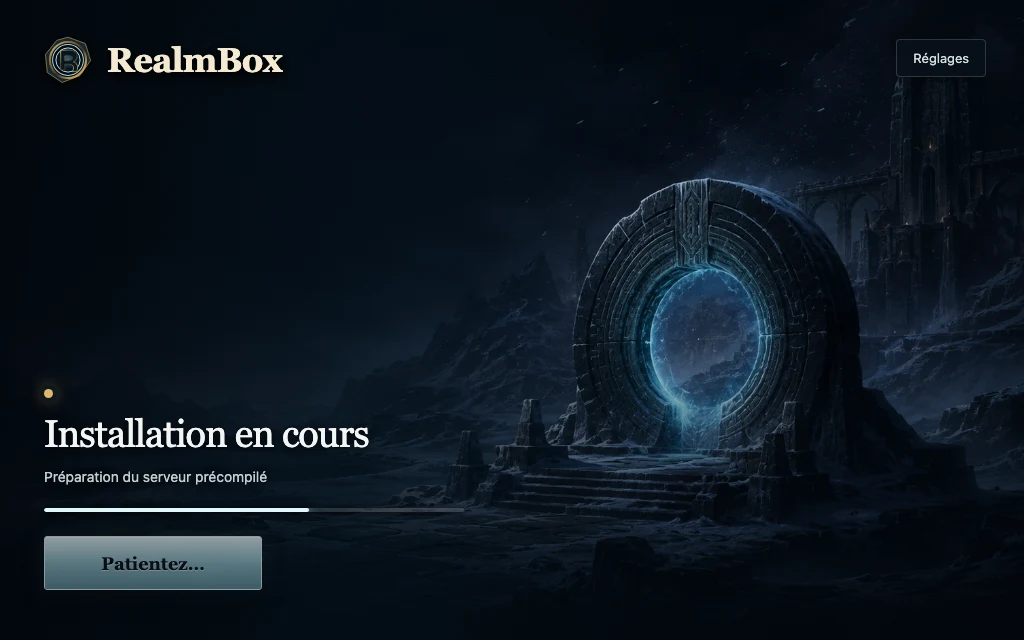
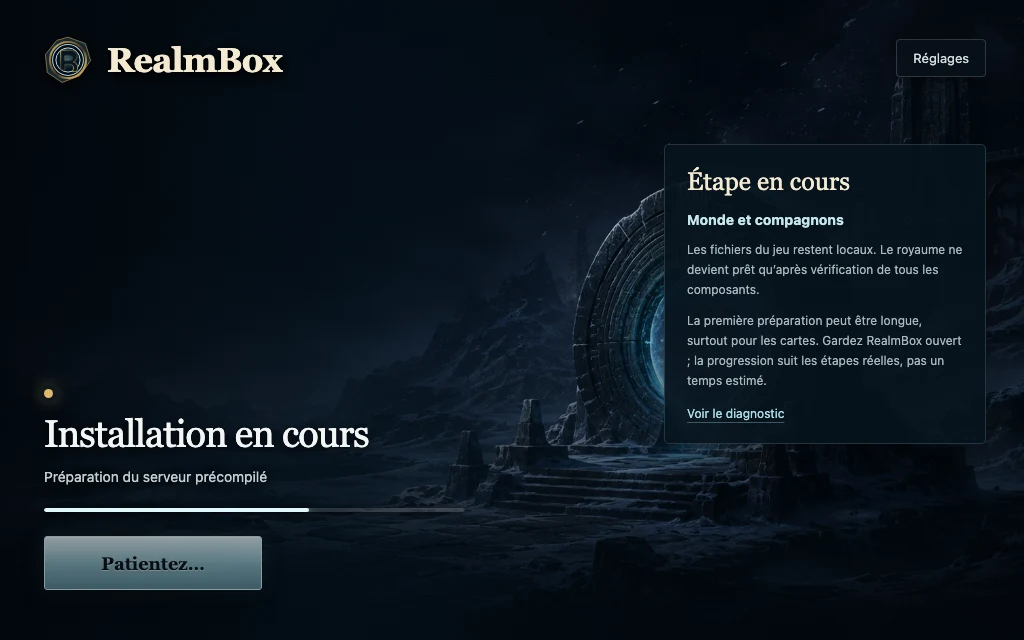
docs: refresh RealmBox website and READMEs for 0.5.0

Changed region(s): [[0.625, 0.25, 0.9688, 0.7188]]

diff --git a/site/src/content/fr.ts b/site/src/content/fr.ts
@@ -12,11 +12,26 @@ export const fr: SiteCopy = {
     title: "Azeroth chez vous.",
     accent: "Des bots à vos côtés.",
     body: "RealmBox transforme votre copie compatible de World of Warcraft en une aventure solo locale : AzerothCore fait tourner le monde, Playerbots le peuple et le launcher s’occupe de toute l’installation.",
-    download: "Télécharger RealmBox",
+    download: "Voir la préversion 0.5.0",
+    availability: "Installateurs et sommes SHA-256 : vérifiez leur disponibilité sur GitHub. Windows reste expérimental ; le parcours en jeu 0.5.0 reste à qualifier sur les deux plateformes.",
     install: "Voir l’installation",
     screenshotAsset: "launcher-ready-fr.webp",
     screenshotAlt: "Le launcher RealmBox prêt à lancer World of Warcraft en local",
-    screenshotCaption: "Le vrai launcher RealmBox · aucune ressource du jeu n’est distribuée",
+    screenshotCaption: "Interface RealmBox 0.5.0 · aperçu avec données de démonstration",
+  },
+  updates: {
+    eyebrow: "Nouveautés · préversion 0.5.0",
+    title: "Préparez votre monde. Choisissez votre rythme.",
+    body: "Un accueil avec les raccourcis de votre royaume et de nouveaux outils pour votre aventure solo. Ces vues présentent la version 0.5.0 ; consultez la préversion pour la disponibilité des installateurs.",
+    items: [
+      { title: "Une installation en trois étapes", body: "Votre copie de WoW, vos compagnons, puis le récapitulatif. RealmBox vérifie Docker et l’espace disponible avant d’autoriser le téléchargement." },
+      { title: "Trois rythmes de progression", body: "Normal, Confort ou Accéléré : inspectez les valeurs avant de les appliquer, monde arrêté. Les règles précédentes peuvent être restaurées ; la difficulté des ennemis ne change pas." },
+      { title: "Quêtes et objets à portée de recherche", body: "Le Guide local retrouve jusqu’à huit résultats par nom dans les références de votre monde, avec leur source. Sans IA ni service externe, sans consulter votre personnage." },
+      { title: "Une équipe plus facile à diriger", body: "Trois préréglages d’escouade à cinq, un compagnon principal observé et un aperçu des commandes de groupe ou de cible. Le rappel des mêmes bots par leur nom n’est pas garanti." },
+      { title: "Votre progression protégée", body: "Créez une sauvegarde complète et vérifiée depuis Protection. Les copies restent sur votre ordinateur, hors de l’installation remplaçable, sans écraser les précédentes." },
+      { title: "Des dialogues toujours facultatifs", body: "Direct, Immersif ou Vivant : réglez les échanges indépendamment de la population. Le nouveau correctif de reprise après échec dépend des images serveur reconstruites pour 0.5.0." },
+    ],
+    link: { href: "https://github.com/bnjdpn/RealmBox/releases/tag/v0.5.0", label: "Nouveautés et disponibilité de la préversion" },
   },
   promise: {
     eyebrow: "WoW, sans serveur à administrer",
@@ -32,14 +47,14 @@ export const fr: SiteCopy = {
     eyebrow: "Playerbots intégrés",
     title: "Azeroth n’est plus vide quand vous jouez seul.",
     body: "Croisez des bots dans le monde, formez un groupe de quatre compagnons et donnez-leur des ordres depuis l’addon RealmBox directement dans WoW.",
-    points: ["Population adaptée à la mémoire de votre machine", "Équipe équilibrée : tank, soin et dégâts", "Suivre, attaquer, attendre, regrouper ou libérer", "Dialogues locaux facultatifs avec Ollama"],
+    points: ["5, 25, 50, 100 ou 150 bots, selon la mémoire attribuée à Docker", "Présence indépendante : Dispersés, Naturelle ou Toujours proches", "Votre équipe en jeu : Escorte, Garde ou Libres", "Dialogues facultatifs : Direct, Immersif ou Vivant"],
     screenshotAsset: "launcher-companions-fr.webp",
     screenshotAlt: "Réglage de la population Playerbots dans RealmBox",
   },
   install: {
     eyebrow: "Installation guidée",
     title: "De zéro à Azeroth en cinq étapes.",
-    intro: "RealmBox a besoin de Docker Desktop et des fichiers d’une copie compatible de WoW. Il ne fournit ni ne téléverse les données du jeu.",
+    intro: "Préparez Docker Desktop et votre copie compatible de WoW, puis suivez l’assistant 0.5.0. Les installateurs sont proposés sur la page de préversion lorsqu’ils sont disponibles.",
     steps: [
       {
         title: "Installez Docker Desktop",
@@ -56,15 +71,15 @@ export const fr: SiteCopy = {
       },
       {
         title: "Téléchargez RealmBox",
-        body: "Prenez le DMG pour Mac Apple Silicon ou l’installateur Windows x64 depuis les releases GitHub, puis vérifiez le SHA-256 fourni.",
+        body: "Consultez les fichiers de la préversion : DMG Mac Apple Silicon ou installateur Windows x64 expérimental. Attendez que le fichier et SHA256SUMS.txt soient disponibles, puis comparez la somme SHA-256.",
         links: [{ href: "https://github.com/bnjdpn/RealmBox/releases", label: "Ouvrir les releases RealmBox" }],
       },
-      { title: "Choisissez le dossier WoW", body: "Dans RealmBox, sélectionnez le dossier qui contient Data. Le launcher vérifie les fichiers sans modifier votre copie source." },
-      { title: "Installez, puis jouez", body: "Choisissez la population de bots, lancez l’installation et cliquez sur Jouer lorsque RealmBox affiche que tout est prêt." },
+      { title: "Votre copie de WoW, puis vos compagnons", body: "Dans l’assistant, sélectionnez le dossier du jeu ou Data, puis réglez population, présence et dialogues facultatifs. Les fichiers de jeu sont vérifiés avant de poursuivre." },
+      { title: "Installez, puis jouez", body: "Consultez Votre installation et corrigez les avertissements Docker ou disque. Cliquez sur Installer après validation, puis sur Jouer lorsque votre monde est prêt." },
     ],
     requirementsTitle: "Configuration requise",
     requirements: [
-      { label: "Système", value: "Mac Apple Silicon ou PC Windows x64" },
+      { label: "Système", value: "Mac Apple Silicon ou PC Windows x64 (expérimental)" },
       {
         label: "Conteneurs",
         value: "Docker Desktop installé, démarré et doté de mémoire",
@@ -97,8 +112,8 @@ export const fr: SiteCopy = {
     facts: [
       { title: "Données extraites localement", body: "maps, vmaps, mmaps et dbc sont produits depuis votre propre dossier Data." },
       { title: "Services isolés", body: "Les ports de jeu restent liés à 127.0.0.1 et MySQL n’est pas exposé sur l’hôte." },
-      { title: "Mises à jour protégées", body: "Une sauvegarde complète et vérifiée des personnages est obligatoire avant toute migration." },
-      { title: "Dialogues facultatifs", body: "Ollama et un petit modèle local peuvent alimenter les réponses des bots sans cloud pendant le jeu." },
+      { title: "Mises à jour protégées", body: "Sauvegarde complète vérifiée avant migration et à la demande dans Protection. Si une sauvegarde requise manque, l’opération s’arrête." },
+      { title: "Dialogues facultatifs", body: "Ollama et un petit modèle local peuvent alimenter les réponses des bots sans cloud pendant le jeu. L’analyse de compatibilité CanIRun transmet uniquement le processeur, le nombre de cœurs et la mémoire." },
     ],
   },
   local: {
@@ -111,6 +126,9 @@ export const fr: SiteCopy = {
     eyebrow: "Questions fréquentes",
     title: "L’essentiel avant de lancer l’installation.",
     items: [
+      { question: "La version 0.5.0 est-elle prête à télécharger ?", answer: "La page de préversion est publique. Vérifiez ses fichiers pour savoir si les installateurs et SHA256SUMS.txt sont disponibles. Les parcours complets macOS et Windows restent à qualifier pour cette version ; Windows est expérimental. Aucune signature de distribution ni notarisation n’est fournie." },
+      { question: "Puis-je annuler un profil solo ?", answer: "Oui, monde arrêté, vous pouvez restaurer les règles précédentes. Cela ne retire pas l’expérience, l’argent ou les métiers déjà acquis et ne modifie pas la difficulté des ennemis." },
+      { question: "Le Guide local suit-il ma progression ?", answer: "Non. Il recherche seulement les noms de quêtes et d’objets dans les références locales. Il ne lit ni votre journal de quêtes ni votre inventaire et ne génère aucun conseil par IA." },
       { question: "Est-ce vraiment World of Warcraft ?", answer: "RealmBox utilise les fichiers d’une copie compatible de World of Warcraft: Wrath of the Lich King et lance un Azeroth local avec AzerothCore. RealmBox ne contient et ne distribue aucun fichier propriétaire du jeu." },
       { question: "Ai-je besoin d’un abonnement ou d’un serveur en ligne ?", answer: "RealmBox ne se connecte pas aux serveurs officiels et ne demande aucun abonnement pour son fonctionnement local. Vous devez toutefois utiliser une copie du jeu que vous êtes autorisé à posséder." },
       { question: "À quoi servent les bots ?", answer: "Playerbots peuple Azeroth avec des personnages autonomes. L’addon RealmBox peut aussi réunir quatre bots près de vous pour créer une équipe jouable." },

diff --git a/site/src/content/en.ts b/site/src/content/en.ts
@@ -12,11 +12,26 @@ export const en: SiteCopy = {
     title: "Azeroth at home.",
     accent: "Bots by your side.",
     body: "RealmBox turns your compatible World of Warcraft copy into a local solo adventure: AzerothCore runs the world, Playerbots populate it, and the launcher handles the entire setup.",
-    download: "Download RealmBox",
+    download: "View the 0.5.0 preview",
+    availability: "Check GitHub for installer and SHA-256 availability. Windows remains experimental; the full 0.5.0 gameplay path still needs qualification on both platforms.",
     install: "See how to install",
     screenshotAsset: "launcher-ready-en.webp",
     screenshotAlt: "The RealmBox launcher ready to start World of Warcraft locally",
-    screenshotCaption: "The real RealmBox launcher · no game resources are distributed",
+    screenshotCaption: "RealmBox 0.5.0 interface · preview with demonstration data",
+  },
+  updates: {
+    eyebrow: "What’s new · 0.5.0 preview",
+    title: "Prepare your world. Choose your pace.",
+    body: "A home screen with realm shortcuts and new tools for your solo adventure. These views show version 0.5.0; check the preview release for installer availability.",
+    items: [
+      { title: "Setup in three steps", body: "Your WoW copy, your companions, then a summary. RealmBox checks Docker and available disk space before allowing the download." },
+      { title: "Three progression speeds", body: "Normal, Comfortable, or Accelerated: inspect the values before applying them with the world stopped. Previous rules can be restored; enemy difficulty stays the same." },
+      { title: "Find quests and items locally", body: "The Local guide finds up to eight results by name in your world’s catalogue, with their source. No AI or external service, and no access to your character." },
+      { title: "More control over your party", body: "Three five-player squad presets, an observed primary companion, and a preview of party or target commands. Recalling the same bots by name is not guaranteed." },
+      { title: "Protect your progress", body: "Create a complete, verified backup from Protection. Copies stay on your computer, outside the replaceable installation, without overwriting earlier backups." },
+      { title: "Dialogue stays optional", body: "Direct, Immersive, or Lively: adjust conversations independently from population. The new failure-recovery patch depends on server images rebuilt for 0.5.0." },
+    ],
+    link: { href: "https://github.com/bnjdpn/RealmBox/releases/tag/v0.5.0", label: "Preview changes and availability" },
   },
   promise: {
     eyebrow: "WoW without server administration",
@@ -32,14 +47,14 @@ export const en: SiteCopy = {
     eyebrow: "Built-in Playerbots",
     title: "Azeroth is no longer empty when you play alone.",
     body: "Meet bots in the world, form a party of four companions, and direct them through the RealmBox addon inside WoW.",
-    points: ["Population matched to your computer’s memory", "Balanced tank, healer, and damage party", "Follow, attack, stay, regroup, or release", "Optional local dialogue through Ollama"],
+    points: ["5, 25, 50, 100, or 150 bots, limited by Docker’s assigned memory", "Separate presence: Dispersed, Natural, or Always nearby", "Your in-game party: Escort, Guard, or Free", "Optional dialogue: Direct, Immersive, or Lively"],
     screenshotAsset: "launcher-companions-en.webp",
     screenshotAlt: "Playerbots population settings in RealmBox",
   },
   install: {
     eyebrow: "Guided installation",
     title: "From zero to Azeroth in five steps.",
-    intro: "RealmBox needs Docker Desktop and the files from a compatible WoW copy. It neither provides nor uploads game data.",
+    intro: "Prepare Docker Desktop and your compatible WoW copy, then follow the 0.5.0 setup assistant. Installers appear on the preview release page when available.",
     steps: [
       {
         title: "Install Docker Desktop",
@@ -56,15 +71,15 @@ export const en: SiteCopy = {
       },
       {
         title: "Download RealmBox",
-        body: "Get the Apple Silicon Mac DMG or the Windows x64 installer from GitHub Releases, then verify the provided SHA-256.",
+        body: "Check the preview assets for the Apple Silicon Mac DMG or experimental Windows x64 installer. Wait until both the installer and SHA256SUMS.txt are available, then compare the SHA-256 checksum.",
         links: [{ href: "https://github.com/bnjdpn/RealmBox/releases", label: "Open RealmBox Releases" }],
       },
-      { title: "Choose the WoW folder", body: "Select the folder containing Data in RealmBox. The launcher checks the files without modifying your source copy." },
-      { title: "Install, then play", body: "Choose the bot population, start installation, and click Play when RealmBox reports that everything is ready." },
+      { title: "Your WoW copy, then your companions", body: "In the assistant, select the game folder or Data, then choose population, presence, and optional dialogue. Game files are checked before you continue." },
+      { title: "Install, then play", body: "Review Your installation and resolve Docker or disk warnings. Click Install after the checks pass, then Play when your world is ready." },
     ],
     requirementsTitle: "System requirements",
     requirements: [
-      { label: "System", value: "Apple Silicon Mac or Windows x64 PC" },
+      { label: "System", value: "Apple Silicon Mac or Windows x64 PC (experimental)" },
       {
         label: "Containers",
         value: "Docker Desktop installed, running, and assigned memory",
@@ -97,8 +112,8 @@ export const en: SiteCopy = {
     facts: [
       { title: "Locally extracted data", body: "maps, vmaps, mmaps, and dbc are produced from your own Data folder." },
       { title: "Isolated services", body: "Game ports stay bound to 127.0.0.1 and MySQL is not exposed on the host." },
-      { title: "Protected updates", body: "A complete, verified character backup is mandatory before any migration." },
-      { title: "Optional dialogue", body: "Ollama and a small local model can power bot replies without cloud access during play." },
+      { title: "Protected updates", body: "Complete, verified backups before migrations and on demand in Protection. If a required backup is missing, the operation stops." },
+      { title: "Optional dialogue", body: "Ollama and a small local model can power bot replies without cloud access during play. The CanIRun compatibility check sends only CPU, core count, and memory information." },
     ],
   },
   local: {
@@ -111,6 +126,9 @@ export const en: SiteCopy = {
     eyebrow: "Frequently asked questions",
     title: "The essentials before starting setup.",
     items: [
+      { question: "Is version 0.5.0 ready to download?", answer: "The preview release page is public. Check its assets for installer and SHA256SUMS.txt availability. Full macOS and Windows gameplay paths still need qualification for this version; Windows is experimental. Distribution signing and notarization are not provided." },
+      { question: "Can I undo a solo profile?", answer: "Yes. With the world stopped, you can restore the previous rules. This does not remove experience, money, or professions already gained, and does not change enemy difficulty." },
+      { question: "Does the Local guide track my progress?", answer: "No. It only searches quest and item names in local references. It reads neither your quest log nor your inventory and generates no AI advice." },
       { question: "Is this actually World of Warcraft?", answer: "RealmBox uses the files from a compatible World of Warcraft: Wrath of the Lich King copy and starts a local Azeroth through AzerothCore. RealmBox contains and distributes no proprietary game files." },
       { question: "Do I need a subscription or an online server?", answer: "RealmBox does not connect to official servers and needs no subscription for its local operation. You must still use a game copy you are authorized to own." },
       { question: "What do the bots do?", answer: "Playerbots populates Azeroth with autonomous characters. The RealmBox addon can also gather four bots near you to form a playable party." },

diff --git a/site/src/styles/global.css b/site/src/styles/global.css
@@ -244,3 +244,14 @@ footer { padding: 3.4rem 0; border-top: 1px solid #68471f; background: radial-gr
   html { scroll-behavior: auto; }
   *, *::before, *::after { transition-duration: .01ms !important; }
 }
+
+/* Release details remain readable alongside the primary action. */
+.release-note { max-width: 39rem; margin: 1.2rem 0 0; color: var(--muted); font-size: .86rem; }
+.updates { background: linear-gradient(180deg, #0d1515, #090c0d); }
+.updates .section-intro { max-width: 54rem; }
+.updates-grid { grid-template-columns: repeat(3, minmax(0, 1fr)); margin-top: 2.5rem; }
+.updates-link { display: inline-block; margin-top: 1.8rem; color: var(--ice); text-decoration: underline; text-underline-offset: .2rem; }
+@media (max-width: 1050px) { .updates-grid { grid-template-columns: repeat(2, minmax(0, 1fr)); } }
+@media (max-width: 720px) { .updates-grid { grid-template-columns: 1fr; } }
+
+.feature-shot figcaption { padding: .6rem; color: var(--muted); text-align: center; font-size: .78rem; }

diff --git a/site/src/content/types.ts b/site/src/content/types.ts
@@ -18,10 +18,16 @@ export type SiteCopy = {
     accent: string;
     body: string;
     download: string;
+    availability: string;
     install: string;
     screenshotAsset: string;
     screenshotAlt: string;
     screenshotCaption: string;
+  };
+  updates: {
+    eyebrow: string; title: string; body: string;
+    items: Array<{ title: string; body: string }>;
+    link: ExternalLink;
   };
   promise: {
     eyebrow: string;

diff --git a/README.fr.md b/README.fr.md
@@ -8,9 +8,23 @@ RealmBox est un launcher desktop libre pour jouer à World of Warcraft entièrem
 
 ![RealmBox prêt à lancer World of Warcraft en local](site/public/assets/launcher-ready-fr.webp)
 
+*Interface RealmBox 0.5.0, capturée avec des données de démonstration.*
+
+## Nouveautés de la version 0.5.0
+
+- **Installation guidée :** choisissez votre copie de WoW, configurez vos compagnons, puis consultez le récapitulatif. Les vérifications Docker et disque doivent réussir avant le téléchargement.
+- **Raccourcis du royaume :** ouvrez les compagnons, les dialogues, les profils solo, Protection et le Guide local depuis l’accueil. La population affichée est celle configurée, pas un compteur de joueurs en ligne.
+- **Rythme de l’aventure :** choisissez Normal, Confort ou Accéléré, avec un aperçu exact et un retour aux règles précédentes.
+- **Recherche locale de quêtes et d’objets :** interrogez le catalogue existant du monde par nom, avec huit résultats maximum et leur source, sans IA ni accès aux personnages.
+- **Préréglages d’escouade :** trois équipes à cinq, un compagnon principal observé, une portée groupe/cible explicite et un aperçu des commandes.
+- **Reprise du runtime :** protection contre deux instances simultanées et correctif de reprise bornée des dialogues après échec ; ce dernier nécessite les nouvelles images serveur.
+
+**Disponibilité vérifiée le 4 septembre 2026 :** [la préversion 0.5.0 est publique](https://github.com/bnjdpn/RealmBox/releases/tag/v0.5.0), sans installateur joint au moment de cette mise à jour. Consultez cette page pour les fichiers actuels et `SHA256SUMS.txt` avant d’installer. Le parcours complet 0.5.0 reste à qualifier sur les deux plateformes ; Windows reste expérimental. Voir [les preuves de validation](STATUS.md) pour distinguer tests automatisés, builds et jeu réel.
+
 ## Ce que fournit le projet
 
 - une seule application orientée joueur pour installer, lancer, arrêter, configurer et diagnostiquer ;
+- un assistant en trois étapes avec vérification avant téléchargement, et les raccourcis du royaume sur l’accueil ;
 - un serveur d’authentification et un monde AzerothCore locaux avec MySQL ;
 - des Playerbots autonomes avec des réglages séparés de population et de proximité, ainsi qu’une équipe de compagnons contrôlable en jeu ;
 - OpenWoW géré sur macOS Apple Silicon, ainsi que `Wow.exe` ou OpenWoW sur Windows x64 ;
@@ -67,7 +81,7 @@ Choisissez le client ou le pack de langue proposé sur la page souhaitée. Realm
 
 ## Configuration requise
 
-- Mac Apple Silicon ou PC Windows x64 ;
+- Mac Apple Silicon ou PC Windows x64 (expérimental) ;
 - [Docker Desktop](https://www.docker.com/products/docker-desktop/) installé et démarré ;
 - au moins 24 Gio d’espace disque libre, plus la taille du modèle de dialogue local facultatif ;
 - un dossier `Data` WoW complet et compatible ;
@@ -101,20 +115,32 @@ Les trois modes ne conservent ni historique de discussion, ni mémoire ou relati
 
 L’arbre source courant ajoute aussi des préréglages d’escouade à cinq, un compagnon principal observé, une portée groupe/cible explicite et l’aperçu de chaque commande bornée. Il n’expulse jamais un membre du groupe. Les noms mémorisés sont des observations, pas une preuve d’identité bot : RealmBox ne promet donc pas de rappeler exactement les mêmes bots sans contrat serveur typé et atomique. Voir [le contrat de l’addon](docs/COMPANION_ADDON.md).
 
-Les profils solo et le guide local sont présents dans les sources après 0.4.0, mais pas encore dans une release distribuée et qualifiée en jeu. Voir [leurs valeurs exactes, leur reprise et leurs limites](docs/SOLO_PROFILES_AND_LOCAL_GUIDE.md).
+## Progression solo et Guide local
+
+| Profil | Expérience et réputation | Argent ramassé | Professions primaires |
+| --- | --- | --- | --- |
+| Normal | ×1 | ×1 | 2 |
+| Confort | ×2 | ×1 | 11 |
+| Accéléré | ×3 | ×2 | 11 |
+
+Confort et Accéléré assouplissent aussi les prérequis de niveau en instance et de groupe en raid, et autorisent les quêtes normales en raid. Appliquez les changements monde arrêté, après avoir consulté les valeurs exactes. Revenir aux règles précédentes ne retire pas les récompenses ou métiers déjà acquis. La difficulté des ennemis ne change pas.
+
+Le Guide local recherche les noms de quêtes ou d’objets dans le catalogue existant du monde. Il ne lit ni l’inventaire ni le journal de quêtes et ne propose pas de conseil de progression personnalisé. Les résultats indiquent leur source et signalent les informations partielles ou indisponibles.
+
+Ces fonctions sont incluses dans la source 0.5.0 ; leur parcours en jeu reste à qualifier. Voir [les valeurs exactes, la reprise et les limites](docs/SOLO_PROFILES_AND_LOCAL_GUIDE.md).
 
 ## Installation
 
 1. Installez et démarrez [Docker Desktop](https://www.docker.com/products/docker-desktop/).
 2. Téléchargez les données WoW compatibles depuis la page ChromieCraft [française](https://chromiecraft.com/fr/telechargements/) ou [anglaise](https://chromiecraft.com/en/downloads/).
-3. Téléchargez RealmBox depuis les [releases GitHub](https://github.com/bnjdpn/RealmBox/releases) et comparez l’artefact avec `SHA256SUMS.txt`.
+3. Consultez les [fichiers de la préversion 0.5.0](https://github.com/bnjdpn/RealmBox/releases/tag/v0.5.0). Une fois l’installateur de votre plateforme et `SHA256SUMS.txt` disponibles, téléchargez-les et comparez la somme de contrôle.
 4. Dans **Votre copie de WoW**, sélectionnez le dossier du jeu ou `Data` ; l’aide au téléchargement est disponible dans cette même vue.
 5. Choisissez **Vos compagnons**, puis consultez **Votre installation**. Corrigez les avertissements de préparation avant de cliquer sur **Installer**.
 6. Cliquez sur **Jouer** lorsque RealmBox indique qu’Azeroth est prêt.
 
-Les binaires distribués actuellement ne sont ni signés ni notariés. Ne contournez pas un avertissement du système si le SHA-256 de l’artefact téléchargé ne correspond pas exactement à la somme publiée. Le [guide d’installation complet](docs/INSTALLATION.md) détaille chaque plateforme.
+La signature de distribution et la notarisation ne sont pas fournies. Ne contournez pas un avertissement du système si le SHA-256 de l’artefact téléchargé ne correspond pas exactement à la somme publiée. Le [guide d’installation complet](docs/INSTALLATION.md) détaille chaque plateforme.
 
-L’assistant en trois étapes, ses vérifications avant téléchargement et les raccourcis du royaume sur l’accueil décrivent la source non publiée après 0.4.0, pas un nouveau binaire distribué. Voir [le contrat UX et de sécurité](docs/SETUP_EXPERIENCE.md).
+Ces étapes décrivent l’assistant 0.5.0. Vérifiez la note de disponibilité ci-dessus avant de télécharger. Voir [le contrat UX et de sécurité](docs/SETUP_EXPERIENCE.md).
 
 ## Persistance et sécurité des mises à jour
 
@@ -175,6 +201,8 @@ cargo xtask release check
 
 - [Architecture](docs/ARCHITECTURE.md)
 - [Installation](docs/INSTALLATION.md)
+- [Installation guidée et accueil](docs/SETUP_EXPERIENCE.md)
+- [Changelog](CHANGELOG.md) et [état des validations](STATUS.md)
 - [Compatibilité](docs/COMPATIBILITY.md)
 - [Mises à jour et sauvegardes](docs/UPDATES.md)
 - [Sécurité](docs/SECURITY.md)

diff --git a/README.md b/README.md
@@ -6,7 +6,20 @@
 
 RealmBox is an open-source desktop launcher for playing World of Warcraft locally. Give it the `Data` folder from a compatible WoW client and it prepares a private AzerothCore realm, populates Azeroth with Playerbots, launches the game, and supervises the complete local runtime.
 
-![RealmBox ready to launch World of Warcraft locally](site/public/assets/launcher-ready-fr.webp)
+![RealmBox ready to launch World of Warcraft locally](site/public/assets/launcher-ready-en.webp)
+
+*RealmBox 0.5.0 interface, captured with demonstration data.*
+
+## What’s new in 0.5.0
+
+- **Guided setup:** choose your WoW copy, configure companions, then review the installation. Docker and disk checks must pass before downloading.
+- **Realm shortcuts:** open companions, dialogue, solo profiles, Protection, and the Local guide from the home screen. The population shown is configured, not a live online count.
+- **Your adventure pace:** choose Normal, Comfortable, or Accelerated with an exact preview and a way to restore the previous rules.
+- **Local quest and item lookup:** search the existing world catalogue by name, with up to eight results and visible sources, without AI or access to character data.
+- **Companion squad presets:** three five-player presets, an observed primary companion, explicit party/target scope, and a command preview.
+- **Runtime recovery:** a single-instance guard and a bounded local-dialogue failure recovery patch; the latter requires rebuilt server images.
+
+**Availability, checked 4 September 2026:** [0.5.0 is a public preview](https://github.com/bnjdpn/RealmBox/releases/tag/v0.5.0), with no installers attached at the time of this update. Check that page for current assets and `SHA256SUMS.txt` before installing. Full 0.5.0 gameplay qualification is still pending on both platforms; Windows remains experimental. See [validation evidence](STATUS.md) for the distinction between automated tests, builds, and real gameplay.
 
 ## What the project provides
 
@@ -65,7 +78,7 @@ Choose the client or language pack offered on the page you want. RealmBox ultima
 
 ## Requirements
 
-- Apple Silicon Mac or Windows x64 PC;
+- Apple Silicon Mac or Windows x64 PC (experimental);
 - [Docker Desktop](https://www.docker.com/products/docker-desktop/) installed and running;
 - at least 24 GiB of free disk space, plus space for the optional local dialogue model;
 - a complete compatible WoW `Data` folder;
@@ -99,20 +112,32 @@ None of the three modes keeps conversation history, evolving memory or relations
 
 The current source tree also adds named five-player squad presets, an observed primary companion, explicit party/target scope, and a preview of the exact bounded command. It never removes a group member. Remembered names are observations, not proof of bot identity, so RealmBox deliberately does not promise to recall the same bots until Playerbots provides an atomic typed server contract. See [the addon contract](docs/COMPANION_ADDON.md).
 
-Solo profiles and local lookup are available in the source tree after 0.4.0. They are not yet part of a distributed, gameplay-qualified release. See [their exact values, recovery contract, and limitations](docs/SOLO_PROFILES_AND_LOCAL_GUIDE.md).
+## Solo progression and the Local guide
+
+| Profile | Experience and reputation | Money drops | Primary professions |
+| --- | --- | --- | --- |
+| Normal | ×1 | ×1 | 2 |
+| Comfortable | ×2 | ×1 | 11 |
+| Accelerated | ×3 | ×2 | 11 |
+
+Comfortable and Accelerated also relax instance level and raid-group requirements and allow normal quests in raids. Apply changes with the world stopped, after reviewing the exact values. Restoring the previous rules does not remove rewards or professions already gained. Enemy difficulty does not change.
+
+The Local guide searches quest or item names in the existing world catalogue. It reads no inventory or quest log and provides no personalised progression advice. Results identify their source and whether information is partial or unavailable.
+
+These features are included in the 0.5.0 source; their full gameplay path still needs qualification. See [exact values, recovery, and limits](docs/SOLO_PROFILES_AND_LOCAL_GUIDE.md).
 
 ## Installation
 
 1. Install and start [Docker Desktop](https://www.docker.com/products/docker-desktop/).
 2. Download the compatible WoW data from the [French](https://chromiecraft.com/fr/telechargements/) or [English](https://chromiecraft.com/en/downloads/) ChromieCraft page.
-3. Download RealmBox from [GitHub Releases](https://github.com/bnjdpn/RealmBox/releases) and compare the artifact with `SHA256SUMS.txt`.
+3. Check the [0.5.0 preview assets](https://github.com/bnjdpn/RealmBox/releases/tag/v0.5.0). Once the installer for your platform and `SHA256SUMS.txt` are available, download them and compare the checksum.
 4. In **Your copy of WoW**, select the game folder or `Data`; download help is available in the same view.
 5. Choose **Your companions**, then review **Your installation**. Resolve any readiness warning before selecting **Install**.
 6. Select **Play** when RealmBox reports that Azeroth is ready.
 
-Current distributed binaries are not signed or notarized. Do not bypass an operating-system warning unless the downloaded artifact's SHA-256 matches the published checksum. See the [complete installation guide](docs/INSTALLATION.md) for platform details.
+Distribution signing and notarization are not provided. Do not bypass an operating-system warning unless the downloaded artifact's SHA-256 matches the published checksum. See the [complete installation guide](docs/INSTALLATION.md) for platform details.
 
-The guided setup and home shortcuts above describe unreleased source after 0.4.0, not a newly distributed binary. See [the UX and safety contract](docs/SETUP_EXPERIENCE.md).
+These steps describe the 0.5.0 setup assistant. Check the availability note above before downloading. See [the UX and safety contract](docs/SETUP_EXPERIENCE.md).
 
 ## Persistence and update safety
 
@@ -175,6 +200,8 @@ cargo xtask release check
 
 - [Architecture](docs/ARCHITECTURE.md)
 - [Installation](docs/INSTALLATION.md)
+- [Guided setup and home screen](docs/SETUP_EXPERIENCE.md)
+- [Changelog](CHANGELOG.md) and [validation status](STATUS.md)
 - [Compatibility](docs/COMPATIBILITY.md)
 - [Updates and backups](docs/UPDATES.md)
 - [Security](docs/SECURITY.md)

diff --git a/STATUS.md b/STATUS.md
@@ -8,9 +8,17 @@ Correction d’orchestration : construction serveur appelée par la release, ima
 
 Validation locale du correctif : `actionlint` réussi pour les deux workflows ; `pnpm verify` réussi avec 52 tests React, 32 tests de scripts (dont les quatre nouveaux), 141 tests desktop Rust et 5 tests xtask. Ce résultat n’est pas une preuve de construction ou publication des images/installateurs distants.
 
-## RealmBox 0.5.0 — préparation de la préversion
+## RealmBox 0.5.0 — préversion publique
 
-La version produit et Cargo est incrémentée à 0.5.0 pour la sauvegarde obligatoire avant migration. La publication visée reste un brouillon de préversion : les nouvelles images serveur, les installateurs CI et le parcours réel doivent être vérifiés séparément. Les preuves ci-dessous restent datées ; elles ne qualifient pas automatiquement cette nouvelle version.
+La version produit et Cargo est incrémentée à 0.5.0 pour la sauvegarde obligatoire avant migration. Relecture GitHub le 4 septembre 2026 à 08:25 UTC : la [préversion 0.5.0](https://github.com/bnjdpn/RealmBox/releases/tag/v0.5.0) est publique (`isDraft: false`, `isPrerelease: true`), sans installateur joint à cet instant. Cette publication ne prouve ni les nouvelles images serveur, ni les bundles, ni le parcours réel. Les preuves ci-dessous restent datées et ne qualifient pas automatiquement cette nouvelle version.
+
+## Site et README — 4 septembre 2026
+
+- README principal anglais et français alignés sur l’installation guidée, les raccourcis, les profils solo, le guide local et les commandes d’escouade 0.5.0 ; disponibilité des installateurs séparée de la publication de la préversion.
+- Site Astro FR/EN actualisé avec ces nouveautés, les réglages indépendants de population/présence/dialogue et les sauvegardes à la demande.
+- Six captures du launcher régénérées à 1024 × 640 via le runtime navigateur simulé ; les légendes des captures publiées indiquent les données de démonstration. Aucun lancement du royaume ni accès aux données joueur.
+- `pnpm verify` réussi : 52 tests React, 28 tests de scripts, 141 tests desktop Rust, 5 tests xtask, typage, lint, builds web et contrôles Rust/release. Le contrôle de release examine le manifeste source conservateur ; il ne relit pas la visibilité GitHub.
+- Vérification navigateur locale : français sur ordinateur 1440 × 1000, anglais sur mobile 390 × 844, lecture visuelle des nouveautés et de l’accueil, changement de langue, aucune image cassée ni débordement horizontal sur ces vues. La publication Pages est vérifiée séparément après le push.
 
 ## Installation guidée et accueil — 4 septembre 2026, source non publiée
 
@@ -31,7 +39,7 @@ Le navigateur utilise exclusivement des données de démonstration. L’applicat
 
 Observation historique du 3 septembre : **GO source, build, installation locale et parcours réel pour la récupération Docker RealmBox 0.3.4 : la purge a été détectée, le dump vérifié restauré, Maps/VMaps/MMaps régénérés, le marqueur retiré, le serveur et OpenWoW lancés, les personnages relus et un personnage existant rejoué à Stormwind. Le bundle corrigé était installé dans `/Users/benjamin/Applications/RealmBox.app`; sa relance depuis ce chemin n’avait pas été forcée afin de ne pas interrompre la partie restaurée encore ouverte. Aucune release publique 0.3.4 n’était revendiquée. L’état historique du brouillon GitHub (v0.2.0) n’est pas une relecture actuelle. NO-GO pour publier une release publique prête pour Windows, signée ou juridiquement validée.**
 
-Le workspace courant porte désormais **RealmBox 0.4.0 plus des changements source non publiés**, mais ce rework bots, solo, guide et dialogues reste **NO-GO pour une qualification réelle ou une release** : les sources et contrôles ciblés sont distincts, tandis que l’installation et le parcours de récupération qualifiés ci-dessous concernent le bundle 0.3.4 construit avant ces changements. Aucun nouveau parcours OpenWoW, build complet du worldserver intégrant le coupe-circuit, image serveur, bundle distribué ou release ne prouve encore ce lot.
+Le workspace courant porte **RealmBox 0.5.0** ; ce rework bots, solo, guide et dialogues reste **non qualifié en jeu**, même si la page de préversion est publique : les sources et contrôles ciblés sont distincts, tandis que l’installation et le parcours de récupération qualifiés ci-dessous concernent le bundle 0.3.4 construit avant ces changements. Aucun nouveau parcours OpenWoW ni bundle distribué vérifié dans les preuves ci-dessous ne qualifie encore ce lot.
 
 ## Adaptation de l’écosystème — sources non publiées après 0.4.0
 
